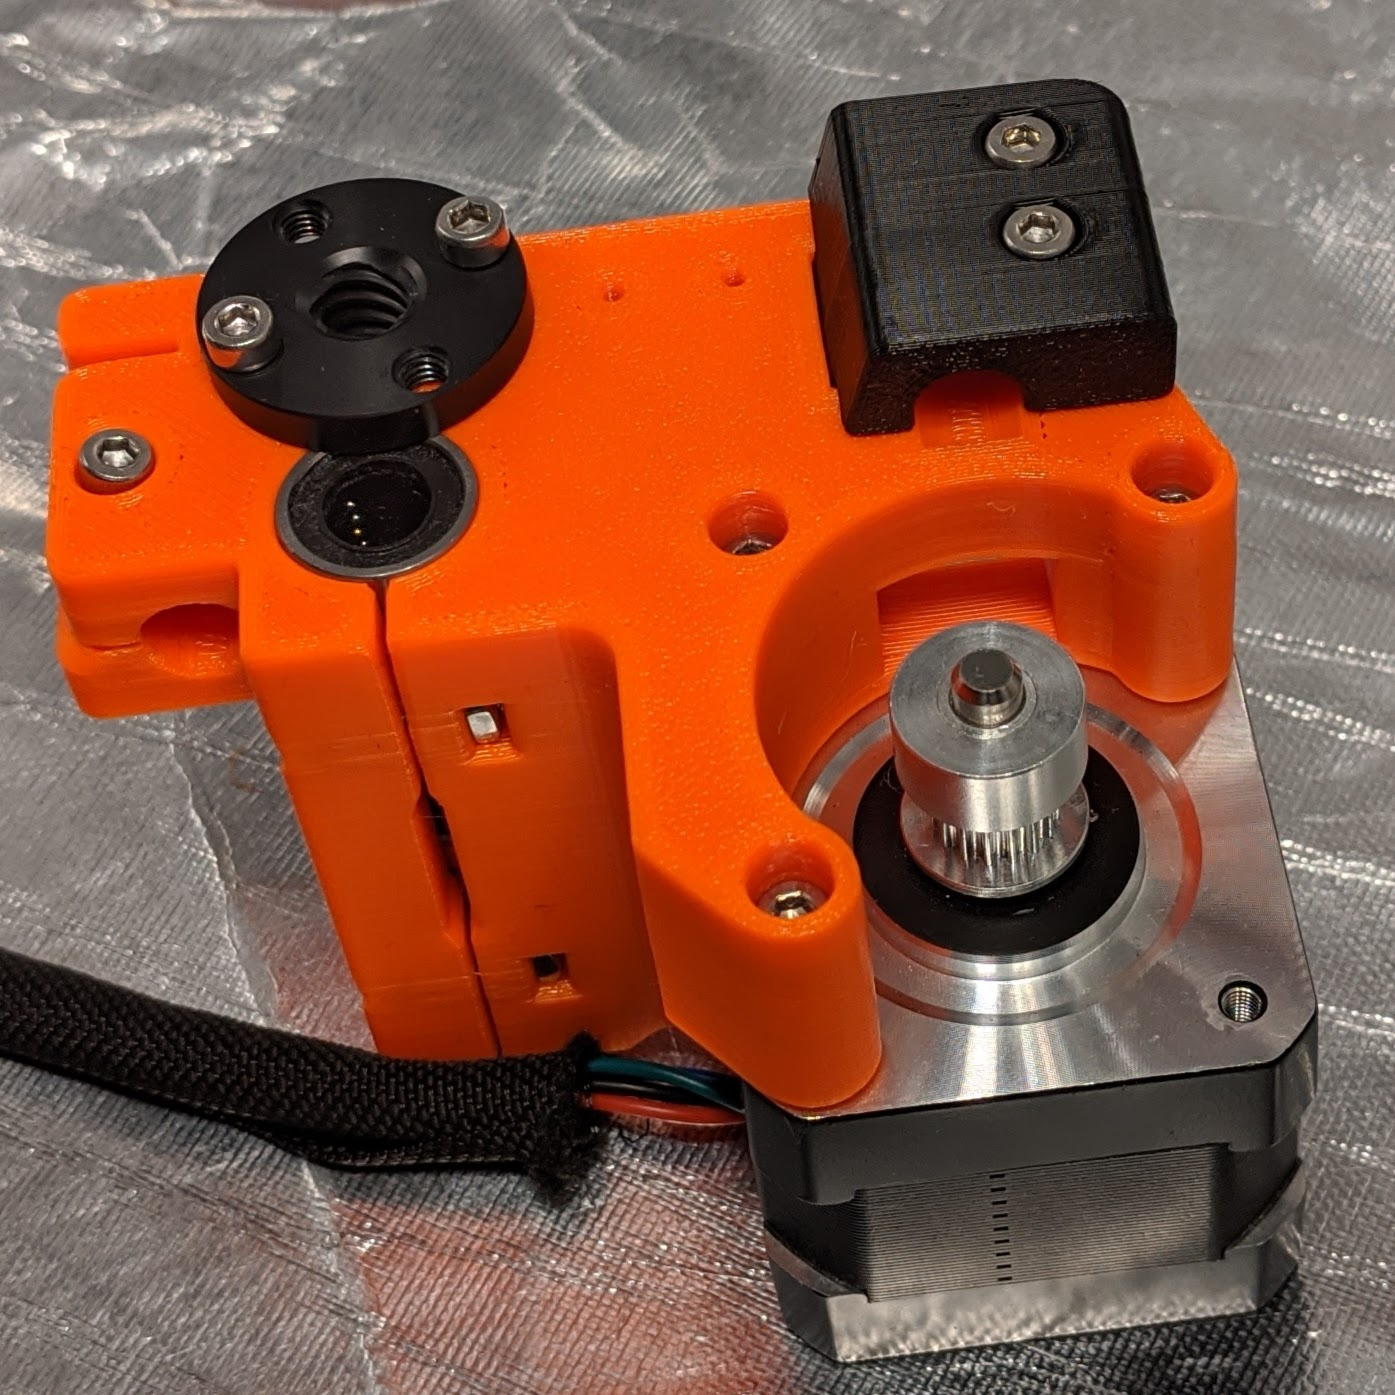
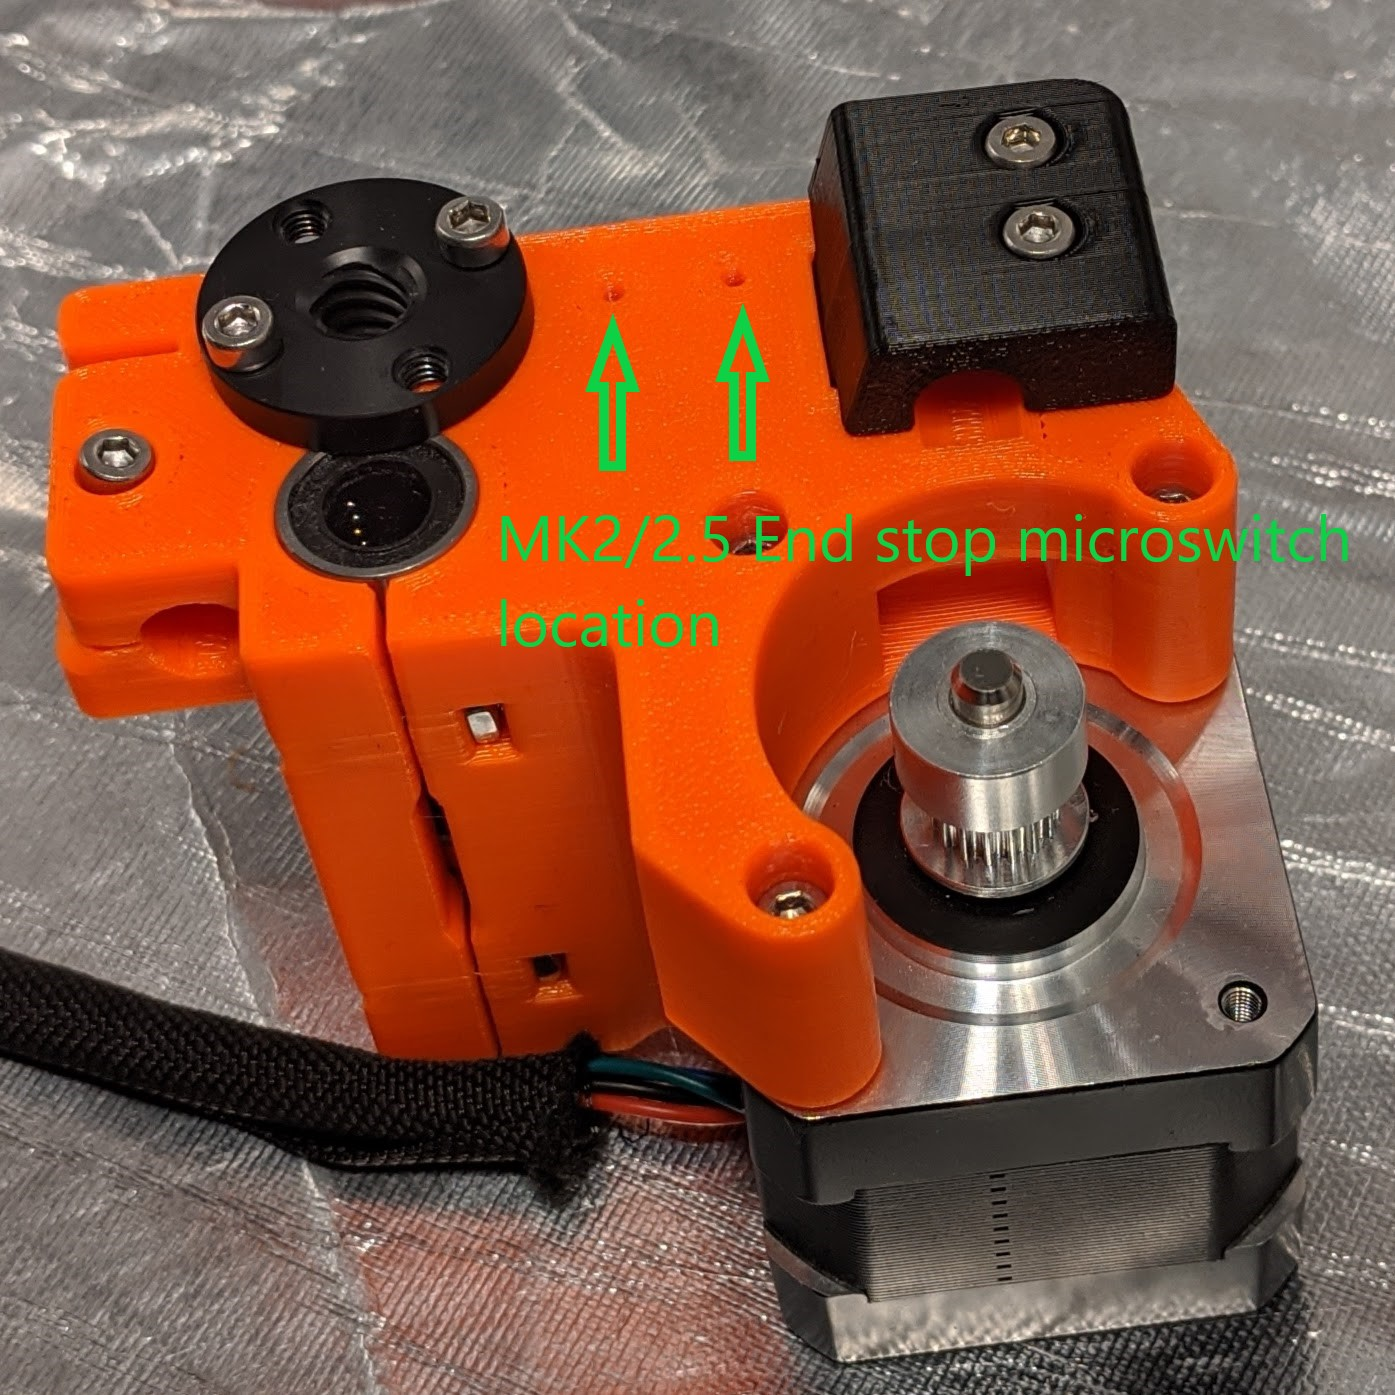
Update

Changed region(s): [[0.3391, 0.3699, 0.9864, 0.4624], [0.4007, 0.2158, 0.4624, 0.3391], [0.4932, 0.2158, 0.5548, 0.3391]]

diff --git a/Build_Guide/01_Part_Left.md b/Build_Guide/01_Part_Left.md
@@ -40,7 +40,8 @@
 * Puncture the 3x motor holes using the M3 hex driver due to the bridging support<br>  
 ![08](../img/Part_Left/08.jpg)
 ---
-* Secure the motor with 3x 18mm bolts<br>  
+* Secure the motor with 3x 18mm bolts
+* For MK2/MK2.5 secure the endstop microswitch using 2x M2 12mm<br>  
 ![09](../img/Part_Left/09.jpg)
 ---
 [Previous](00_First.md) | [Next](02_Part_Right.md)
